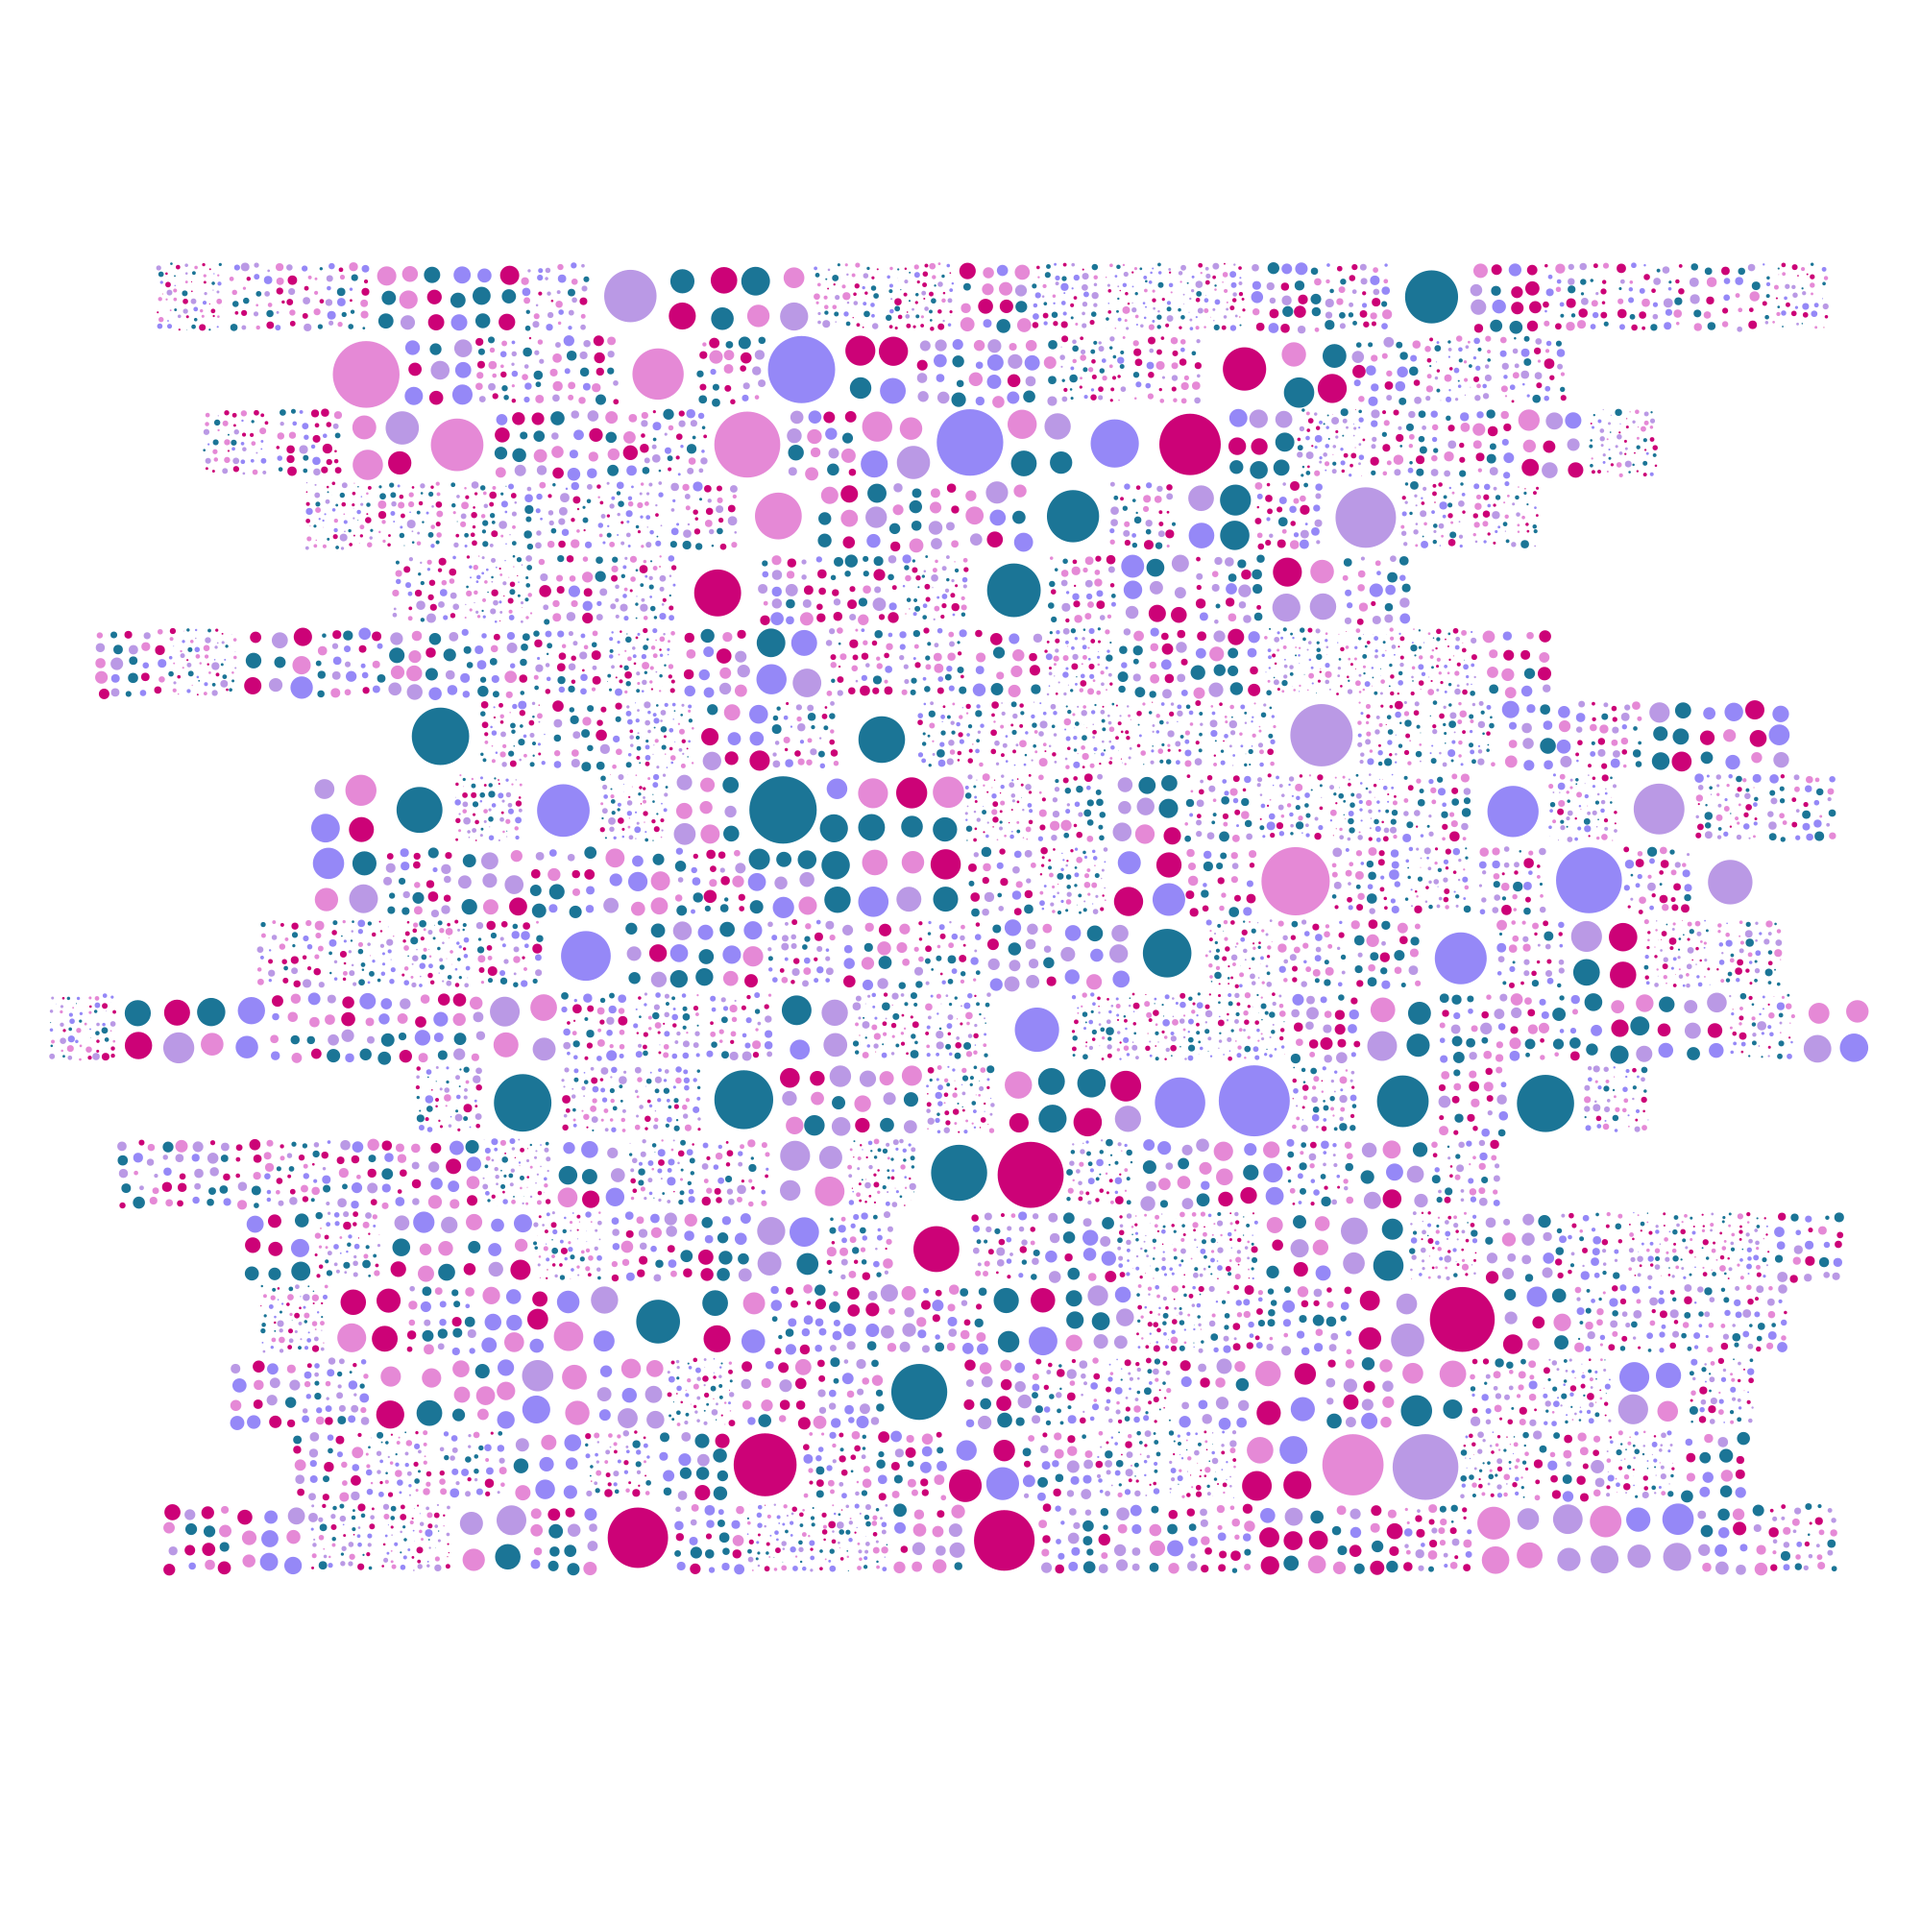
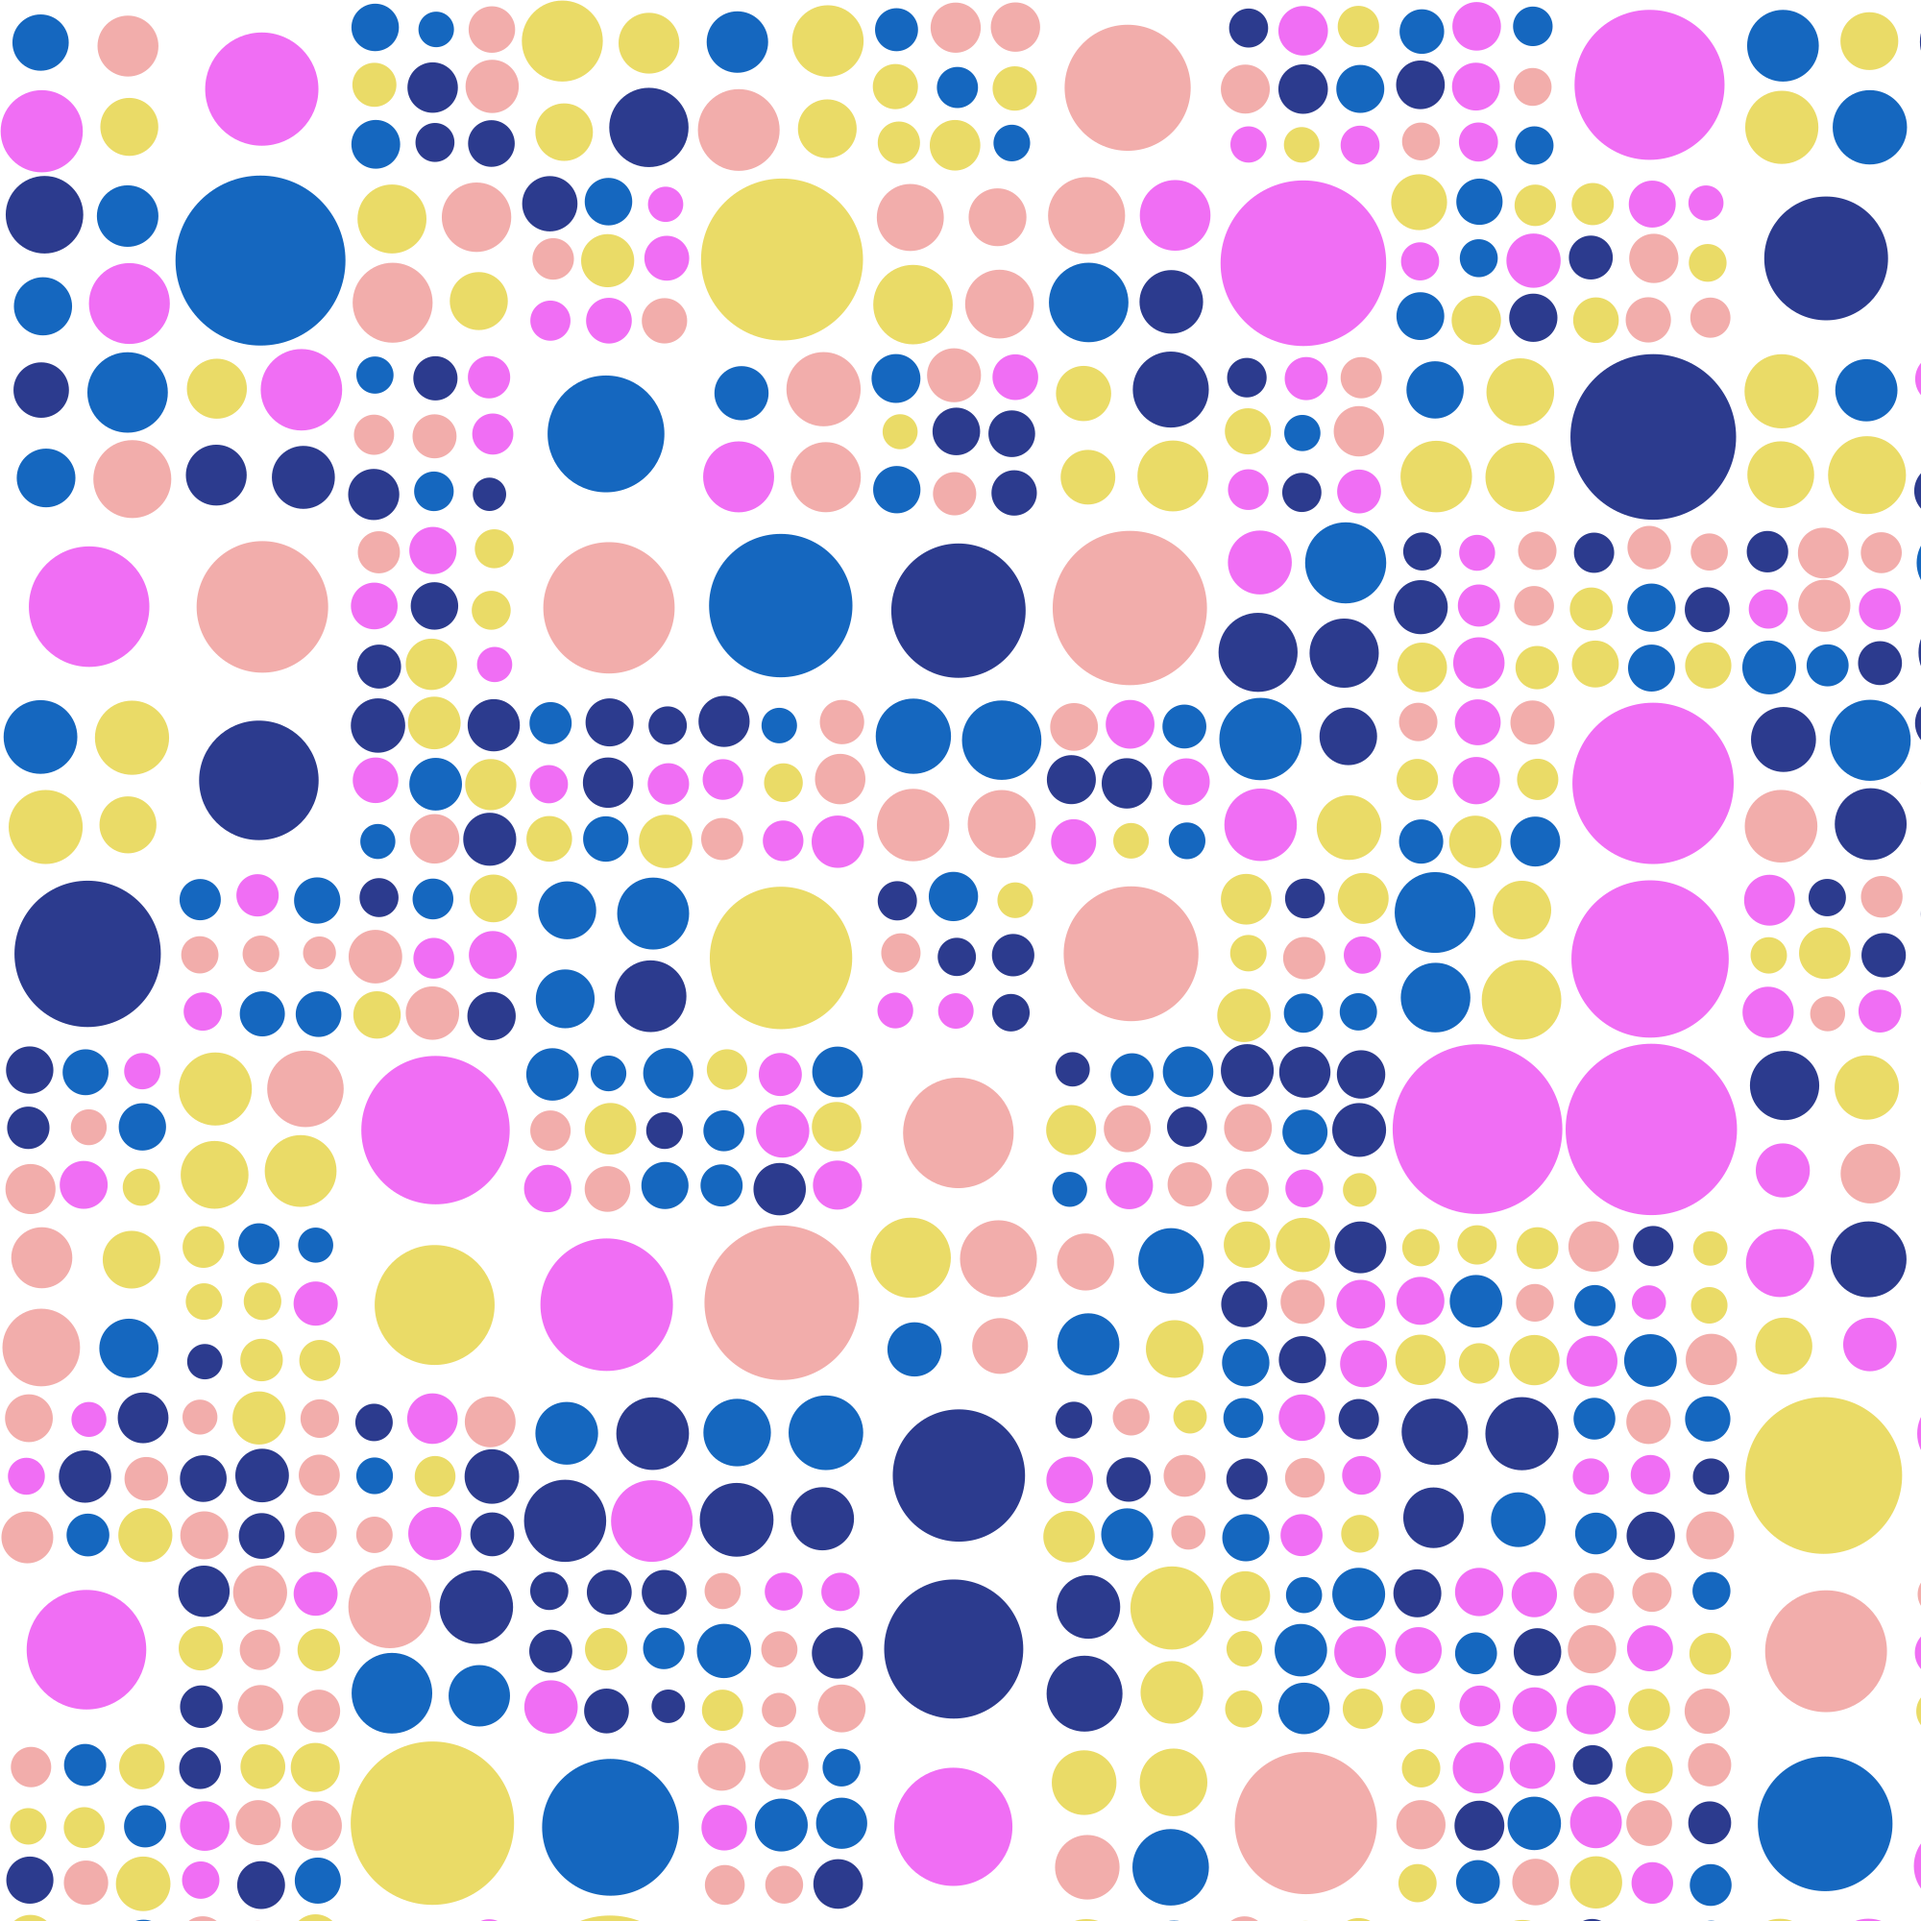
tweak implementation of bubbles

diff --git a/bubbles/bubbles.py b/bubbles/bubbles.py
@@ -27,12 +27,8 @@ def main(filename="output.png", img_width=2000, n=10, max_subdiv=5, palette=rand
     ctx.fill()
 
     size = img_width // n
-    vertical_start = random.randint(0, img_height // 4)
-    vertical_end = random.randint(int(img_height * (3/4)), img_height)
-    for r in range(vertical_start, vertical_end - size, size):
-        row_start = random.randint(0, img_width // 4)
-        row_end = random.randint(int(img_width * (3/4)), img_width)
-        for c in range(row_start, row_end - size, size):
+    for r in range(0, img_height, size):
+        for c in range(0, img_width, size):
             subdiv = random.randint(1, max_subdiv)
             step = size // subdiv
             for y in range(subdiv):
@@ -43,11 +39,11 @@ def main(filename="output.png", img_width=2000, n=10, max_subdiv=5, palette=rand
 
 
 def make_random(filename="output.png", p=random.choice(palettes.PALETTES), img_width=2000, img_height=2000):
-    n = random.randint(8, 80)
-    max_subdiv = random.randint(1, 8)
+    n = random.randint(10, 30)
+    max_subdiv = random.randint(2, 4)
     print(filename, os.path.basename(__file__), n, max_subdiv, p)
     main(filename=filename, n=n, max_subdiv=max_subdiv, palette=p, img_width=max(img_width, img_height))
 
 if __name__ == "__main__":
     for idx in range(5):
-        make_random(filename="output-{}.png".format(idx))
+        make_random(filename="output-{}.png".format(idx), p=random.choice(palettes.PALETTES))
